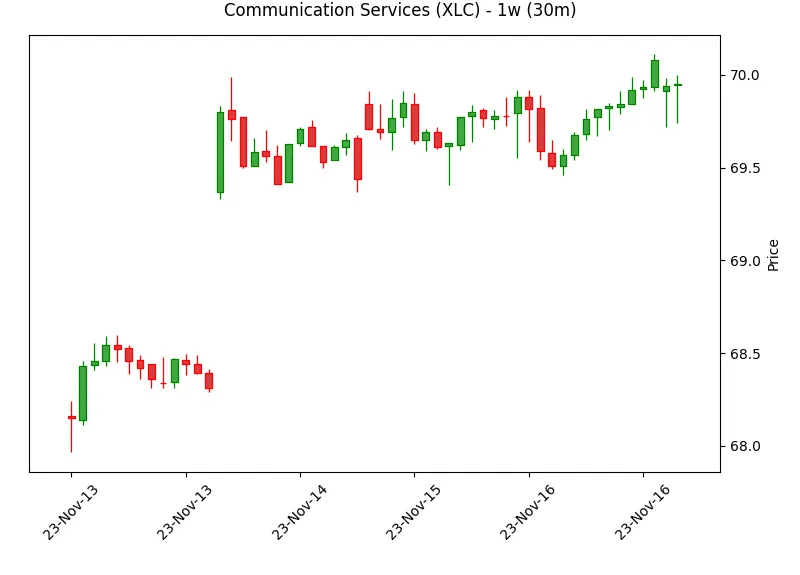
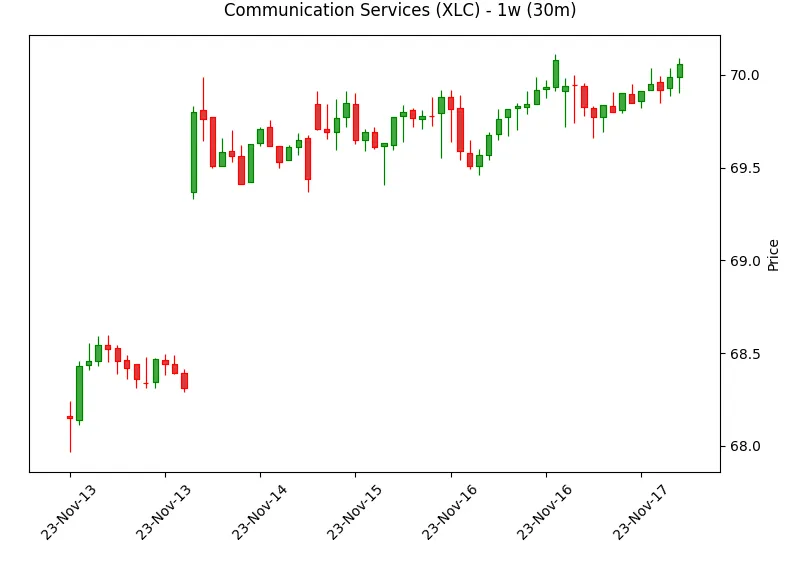
fix: dates bug where friday data was incomplete due to timestamp variations

diff --git a/main.py b/main.py
@@ -1,30 +1,17 @@
 from pathlib import Path
 from datetime import *
 from dateutil.relativedelta import *
-from lib.analyze import outperformers
+from lib.analyze import outperformers_index_sector
+from lib.utils import get_dates
 
-# Dates
-today = datetime.now()
-last_friday = today + relativedelta(weekday=FR(-1))
-last_monday = (last_friday + relativedelta(weekday=MO(-1))).replace(
-    hour=0, minute=0, second=0, microsecond=0
-)
-last_quarter = (last_friday + relativedelta(weeks=-13)).replace(
-    hour=0, minute=0, second=0, microsecond=0
-)
-last_year = (last_friday + relativedelta(weeks=-52)).replace(
-    hour=0, minute=0, second=0, microsecond=0
-)
-last_5_year = (last_friday + relativedelta(weeks=-260)).replace(
-    hour=0, minute=0, second=0, microsecond=0
-)
+dates = get_dates()
 
 print("Fetching data for:")
 print("Strategy: Outperformers")
 print("Period: 1 Week")
-outperformers(
-    start=last_monday,
-    end=last_friday,
+outperformers_index_sector(
+    start=dates["last_monday"],
+    end=dates["last_friday"],
     interval="30m",
     period="1w",
 )
@@ -32,9 +19,9 @@ outperformers(
 print("Fetching data for:")
 print("Strategy: Outperformers")
 print("Period: 1q")
-outperformers(
-    start=last_quarter,
-    end=last_friday,
+outperformers_index_sector(
+    start=dates["last_quarter"],
+    end=dates["last_friday"],
     interval="1d",
     period="1q",
 )
@@ -42,9 +29,9 @@ outperformers(
 print("Fetching data for:")
 print("Strategy: Outperformers")
 print("Period: 1y")
-outperformers(
-    start=last_year,
-    end=last_friday,
+outperformers_index_sector(
+    start=dates["last_year"],
+    end=dates["last_friday"],
     interval="1wk",
     period="1y",
 )
@@ -52,9 +39,9 @@ outperformers(
 print("Fetching data for:")
 print("Strategy: Outperformers")
 print("Period: 5y")
-outperformers(
-    start=last_5_year,
-    end=last_friday,
+outperformers_index_sector(
+    start=dates["last_5_year"],
+    end=dates["last_friday"],
     interval="1mo",
     period="5y",
 )

diff --git a/lib/utils.py b/lib/utils.py
@@ -1,6 +1,37 @@
+from datetime import *
+from dateutil.relativedelta import *
 import pandas as pd
 import yfinance as yf
 import mplfinance as mpf
+
+
+def get_dates():
+    # Dates
+    today = datetime.now()
+    last_friday = (today + relativedelta(weekday=FR(-1))).replace(
+        hour=23, minute=59, second=59
+    )
+    last_monday = (last_friday + relativedelta(weekday=MO(-1))).replace(
+        hour=0, minute=0, second=0, microsecond=0
+    )
+    last_quarter = (last_friday + relativedelta(weeks=-13)).replace(
+        hour=0, minute=0, second=0, microsecond=0
+    )
+    last_year = (last_friday + relativedelta(weeks=-52)).replace(
+        hour=0, minute=0, second=0, microsecond=0
+    )
+    last_5_year = (last_friday + relativedelta(weeks=-260)).replace(
+        hour=0, minute=0, second=0, microsecond=0
+    )
+
+    return {
+        "today": today,
+        "last_friday": last_friday,
+        "last_monday": last_monday,
+        "last_quarter": last_quarter,
+        "last_year": last_year,
+        "last_5_year": last_5_year,
+    }
 
 
 def format_date(date):
